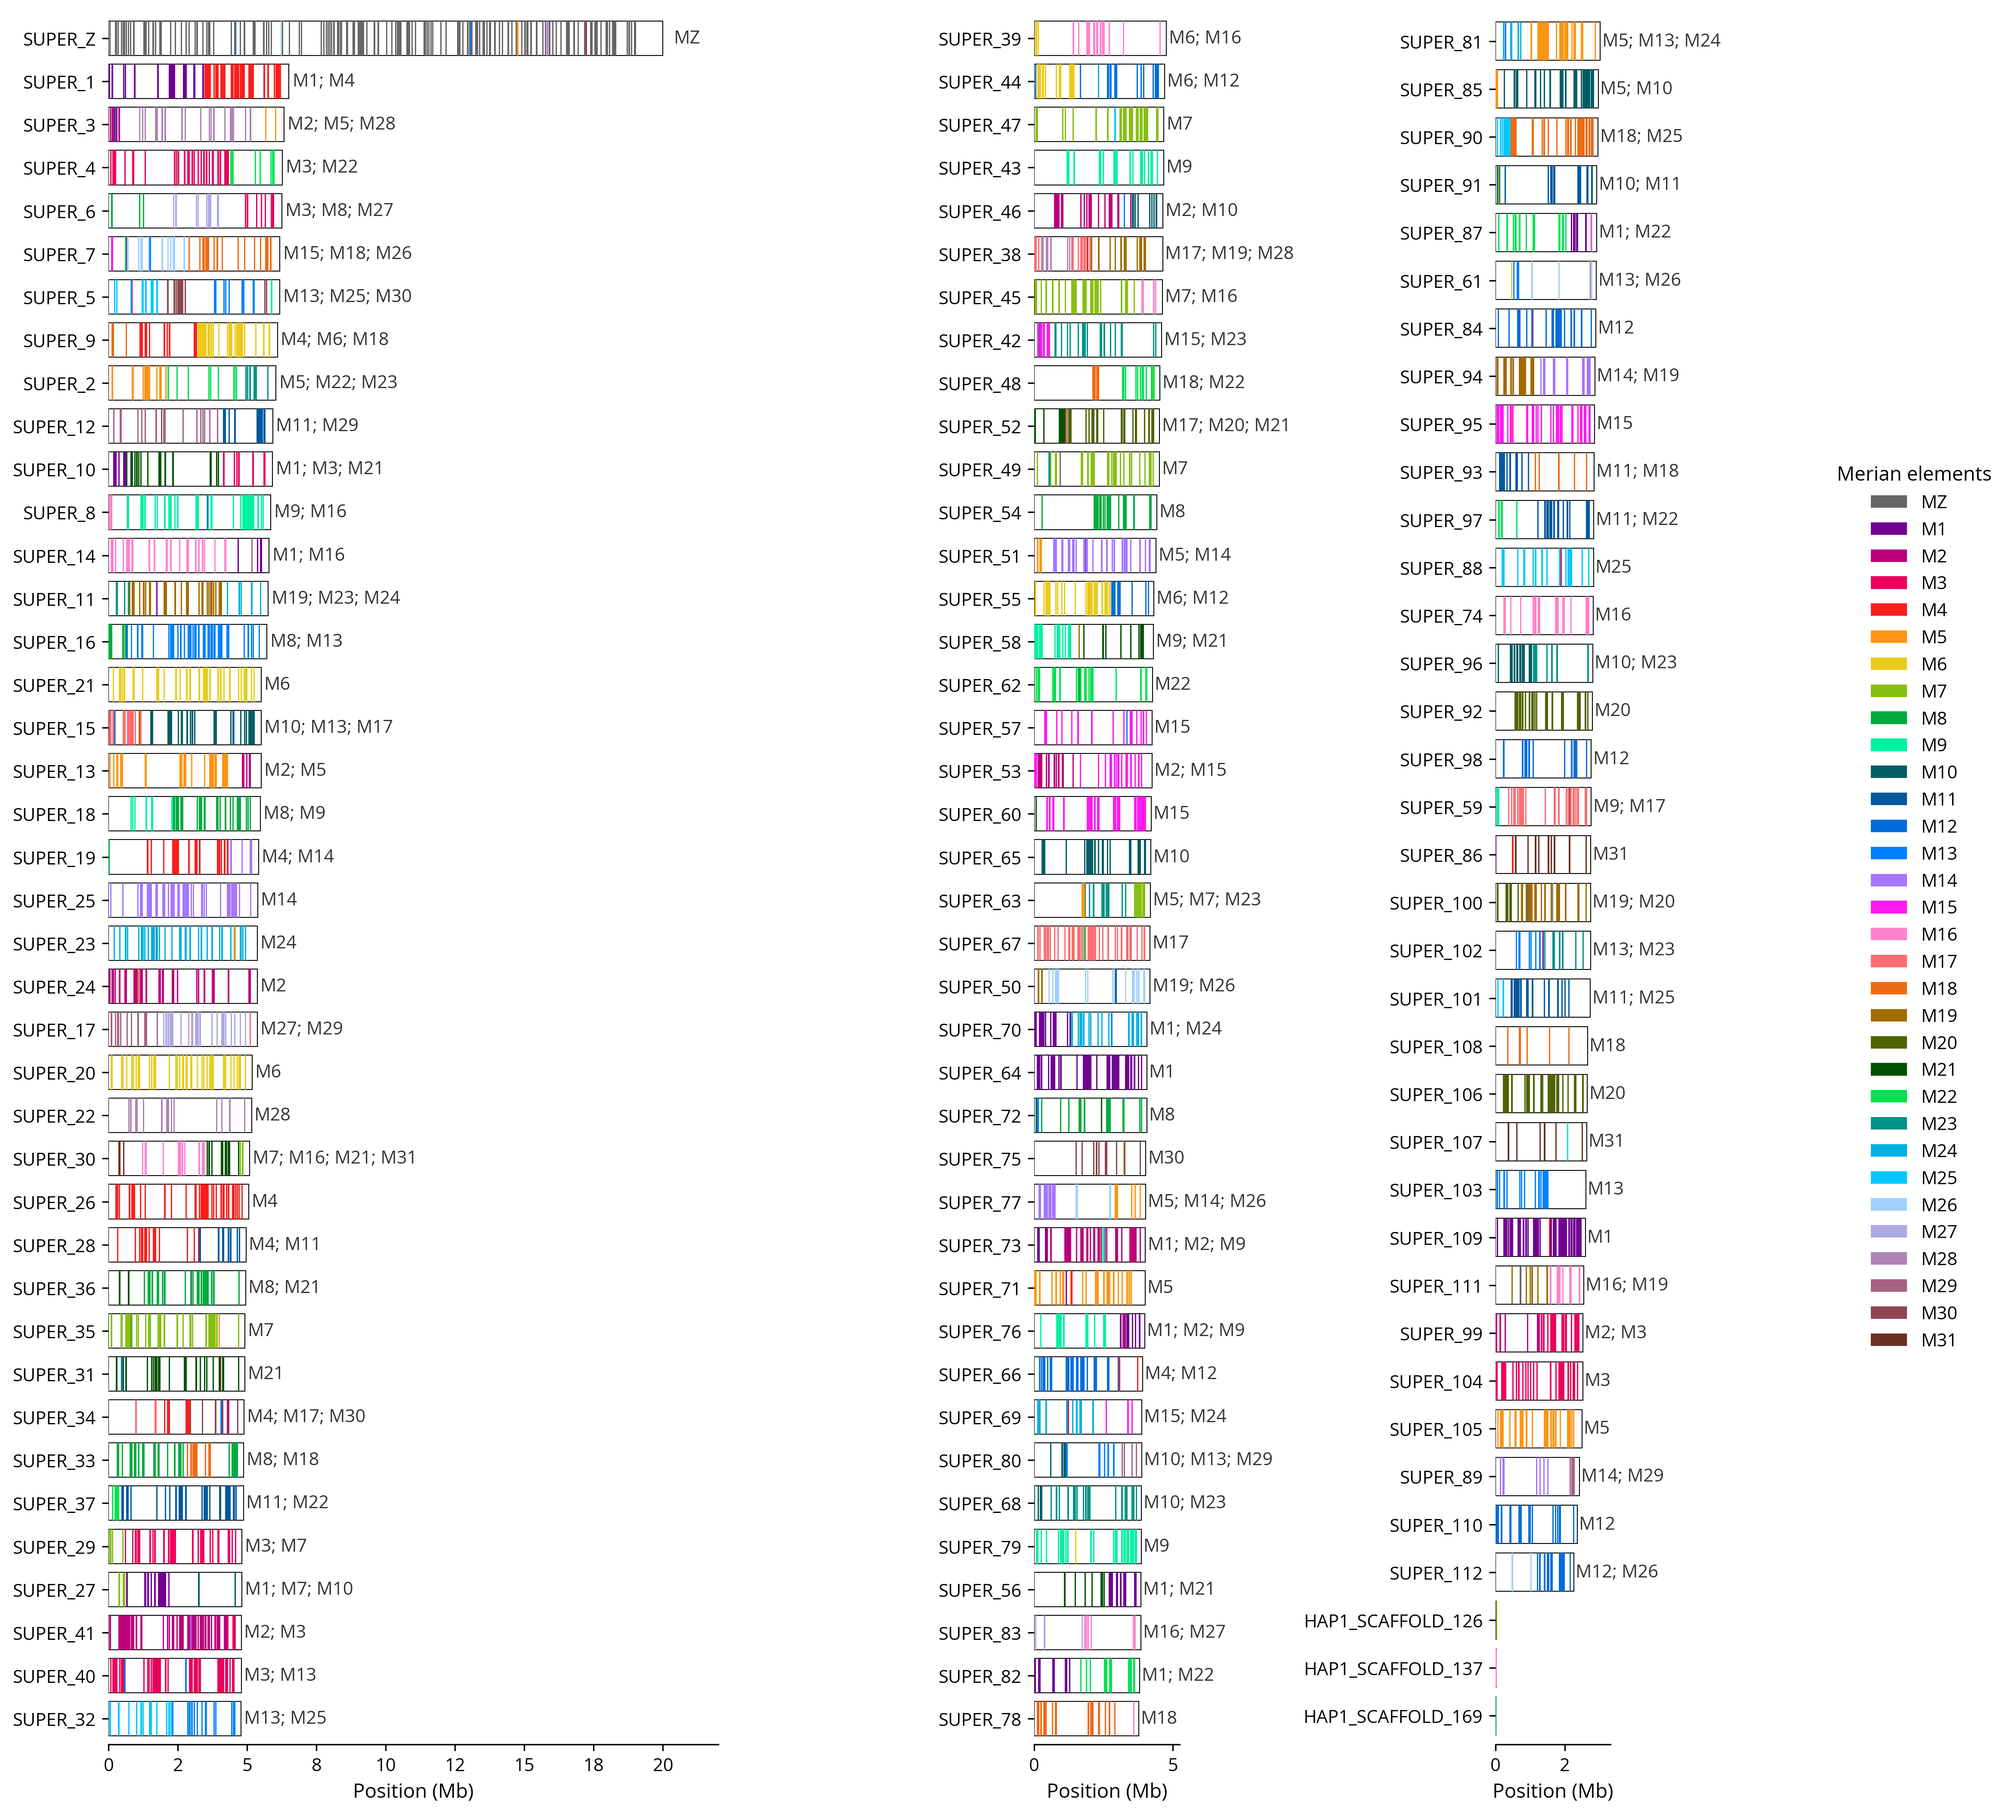
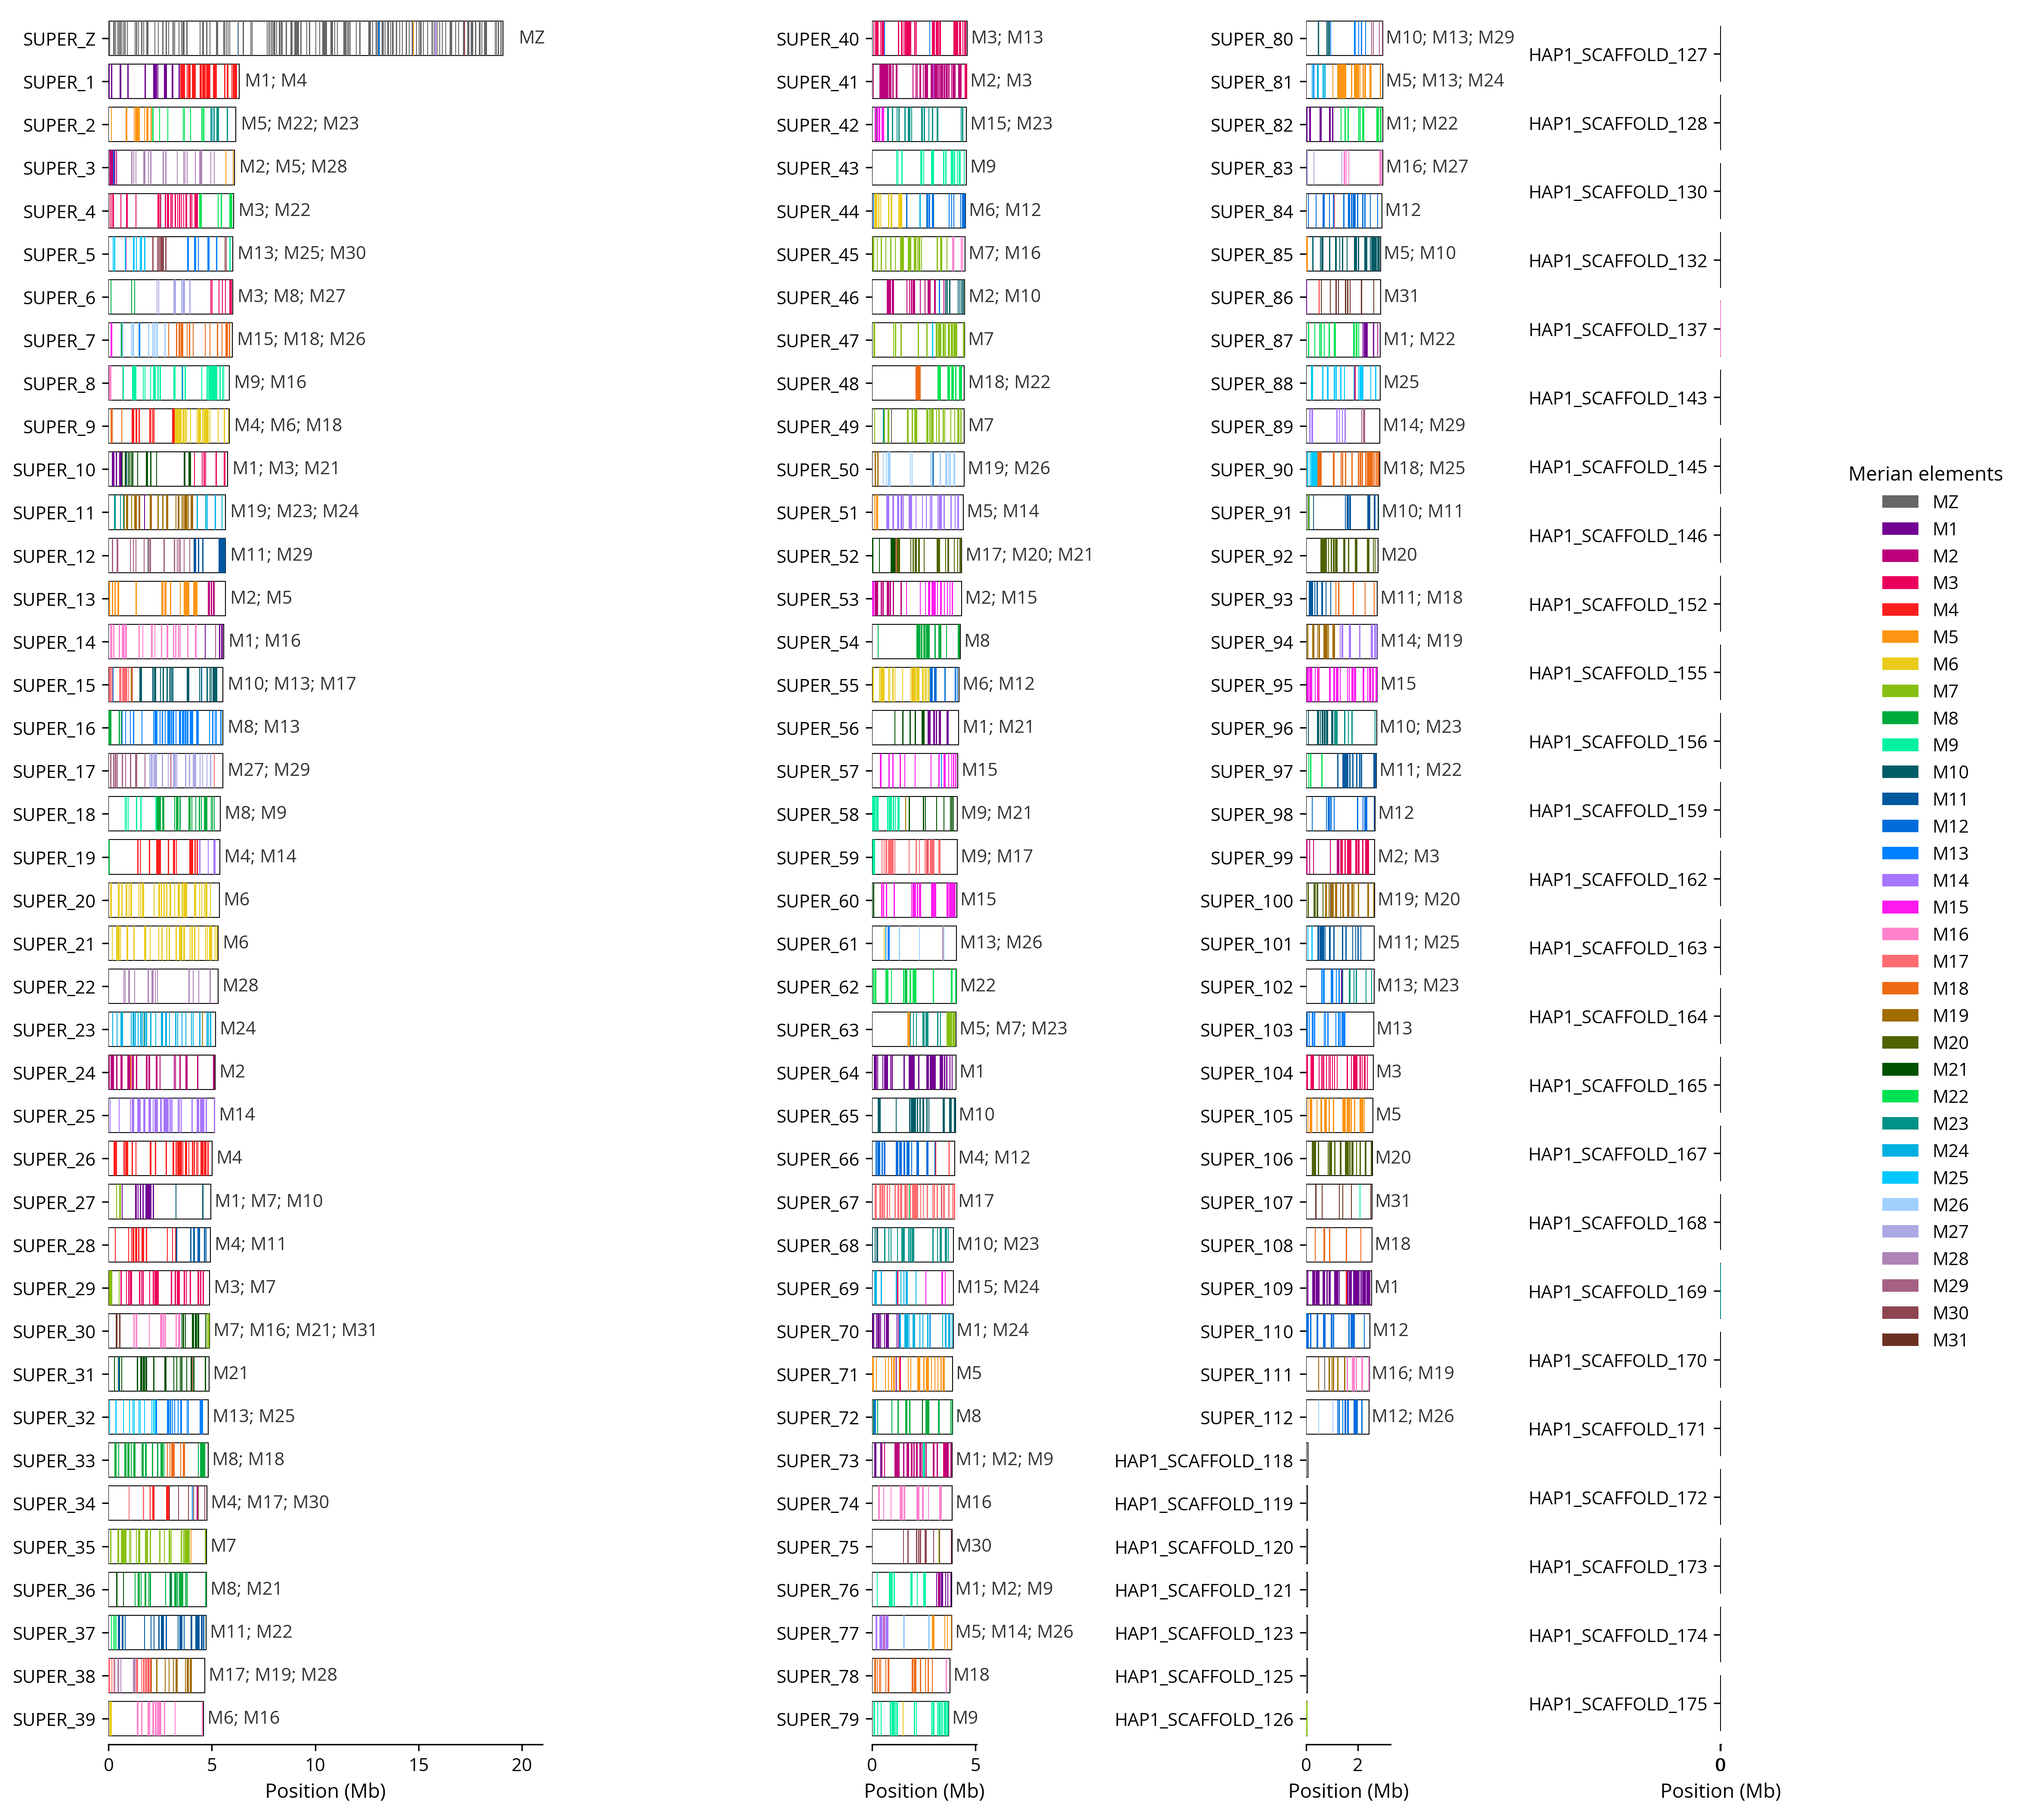
Update README.md

diff --git a/plot_buscopainter.py b/plot_buscopainter.py
@@ -71,21 +71,38 @@ def setup_font():
     except Exception as e:
         print(f"[WARN] Could not load OpenSans: {e}")
 
+def load_lengths(lengths_file):
+    """Load chromosome lengths from either chrom_lengths.tsv or a .fai index."""
+    with open(lengths_file) as fh:
+        first_line = fh.readline().strip().split('\t')
+
+    if first_line[:2] == ['Chrom', 'Length_Mb']:
+        chrom_lengths = pd.read_csv(lengths_file, sep='\t')
+        chrom_lengths['length'] = chrom_lengths['Length_Mb'] * 1e6
+        return chrom_lengths.rename(columns={'Chrom': 'query_chr'})[['query_chr', 'length']]
+
+    chrom_lengths = pd.read_csv(
+        lengths_file,
+        sep='\t',
+        header=None,
+        usecols=[0, 1],
+        names=['query_chr', 'length']
+    )
+    return chrom_lengths
+
 def load_data(location_file, lengths_file=None):
-    """Load BUSCO locations and chromosome lengths"""
+    """Load BUSCO locations and chromosome lengths."""
     # Read locations
     locations = pd.read_csv(location_file, sep='\t')
     
     # Clean chromosome names (remove any :scaffolds)
     locations['query_chr'] = locations['query_chr'].str.replace(':.*', '', regex=True)
     
-    # Read or estimate chromosome lengths
+    # Read chromosome lengths or estimate BUSCO extent as a fallback
     if lengths_file:
-        chrom_lengths = pd.read_csv(lengths_file, sep='\t')
-        chrom_lengths['length'] = chrom_lengths['Length_Mb'] * 1e6  # Convert to bp
-        chrom_lengths = chrom_lengths.rename(columns={'Chrom': 'query_chr'})
+        chrom_lengths = load_lengths(lengths_file)
     else:
-        # Fallback: estimate from max position + 5% padding
+        # Fallback used for curation mode when no chromosome/scaffold index is available
         chrom_lengths = locations.groupby('query_chr')['position'].max().reset_index()
         chrom_lengths['length'] = chrom_lengths['position'] * 1.05
     
@@ -312,7 +329,7 @@ def plot_merian_chromosomes(locations, chrom_lengths, output_prefix, minimum_bus
 
             if chrom in merian_labels:
                 label_text = merian_labels[chrom]
-                ax.text(length * 1.02, y, label_text,
+                ax.text(length * 1.04, y, label_text,
                         va='center', ha='left', fontsize=10,
                         color='#333333')
 

diff --git a/README.md b/README.md
@@ -39,7 +39,7 @@ also to improve figure appearance and control. In particular, the Python
 plotting code makes it easier to:
 
 - control font selection and fallback behaviour more cleanly
-- place Merian labels for each chromosome
+- place Merian labels for each chromosome to improve interpretation of the plot
 - tune figure sizing and spacing for genome note outputs
 - split large karyotypes across columns while keeping a consistent Mb scale across panels
 - write PNG and SVG outputs directly from the same code path
@@ -115,15 +115,16 @@ chromosome-focused: plotting units are assembled chromosomes, and lengths from
 unlocalized scaffolds are added to their parent chromosome. This is the mode
 intended for public assemblies and genome notes figures.
 
-If you do not provide `--accession`, no NCBI chromosome table is written and
-`plot_buscopainter.py` falls back to plotting every BUSCO-bearing `query_chr`
-present in the BUSCO table. This is useful during curation, when unassembled
-scaffolds with genes should remain visible so they can be checked and placed.
+If you do not provide `--accession`, curation assemblies can be plotted against
+real scaffold lengths by passing a `.fai` file to `plot_buscopainter.py` with
+`--lengths`. This keeps all BUSCO-bearing sequences visible while preserving
+true scaffold lengths.
 
-There is no separate `.fai` workflow in this repository. The plotting step
-either uses the NCBI-derived `chrom_lengths.tsv` written by `buscopainter.py`,
-or estimates lengths directly from BUSCO positions when no lengths table is
-available.
+The plotting step accepts either the NCBI-derived `chrom_lengths.tsv` written
+by `buscopainter.py` or a standard `.fai` index. Estimating lengths directly
+from BUSCO positions is still supported as a last-resort fallback when no
+lengths file is available, but it reflects BUSCO extent rather than true
+chromosome or scaffold length.
 
 ## Batch workflow
 
@@ -176,11 +177,13 @@ Single-panel example for `ilHelArmi9` (`GCA_963930815.1`):
 Multi-panel example for `ilApoPilo2`, a curation in progress:
 
 - BUSCO table: [examples/ilApoPilo2_full_table.tsv](examples/ilApoPilo2_full_table.tsv)
+- scaffold index: [examples/ilApoPilo2.fa.fai](examples/ilApoPilo2.fa.fai)
 - plot output: `examples/ilApoPilo2.png`
 
-This example shows how assemblies with many BUSCO-bearing sequences are split
-across columns automatically when the number of plotted chromosomes/scaffolds
-exceeds `--panel-size` (default `40`).
+This example uses a `.fai` index so all BUSCO-bearing scaffolds are plotted
+against their true lengths. Assemblies with many sequences are split across
+columns automatically when the number of plotted chromosomes/scaffolds exceeds
+`--panel-size` (default `40`).
 
 ![Example Merian plot for ilApoPilo2](examples/ilApoPilo2.png)
 
@@ -193,8 +196,11 @@ exceeds `--panel-size` (default `40`).
 - Chromosome lengths come from NCBI Datasets `sequence_reports`, using the main
   assembled-molecule accession and summing any unlocalized scaffolds assigned to
   that chromosome.
-- Without an NCBI accession, the fallback plot includes all BUSCO-bearing
-  `query_chr` values from the BUSCO table, which is useful during curation.
+- For curation assemblies, `plot_buscopainter.py` can use a `.fai` index to
+  plot all BUSCO-bearing scaffolds against their true lengths.
+- Without a lengths file, the fallback plot includes all BUSCO-bearing
+  `query_chr` values from the BUSCO table and estimates their lengths from BUSCO
+  extent only.
 - The plotting script labels each scaffold/chromosome with Merian elements that
   meet the `--label-threshold`.
 - Large chromosome sets can be split across columns with `--panel-size`; panel
@@ -215,5 +221,4 @@ The `MerianBow4` palette used here is credited to [Arnaud Martin](<https://biolo
 
 This repository uses the Merian element framework described in:
 
-Wright CJ, et al. 2024. Comparative genomics reveals the dynamics of chromosome evolution in Lepidoptera. *Nature Ecology &
-Evolution*. doi: [10.1038/s41559-024-02329-4](https://doi.org/10.1038/s41559-024-02329-4), PMID: 38383850; PMCID: PMC11009112
+Wright CJ, et al. 2024. Comparative genomics reveals the dynamics of chromosome evolution in Lepidoptera. *Nature Ecology & Evolution*. doi: [10.1038/s41559-024-02329-4](https://doi.org/10.1038/s41559-024-02329-4), PMID: 38383850; PMCID: PMC11009112
